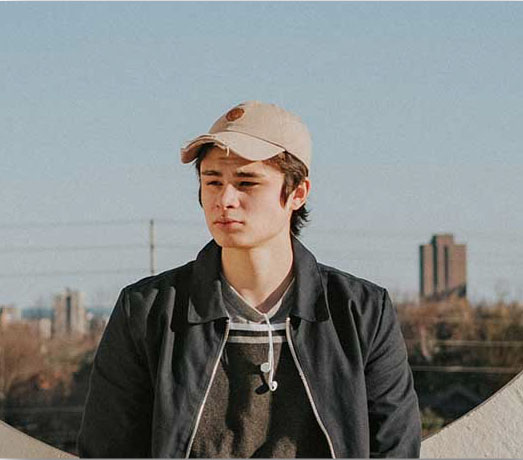
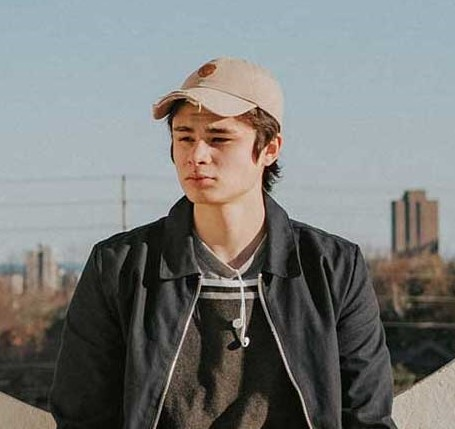
Seccion Equipo sin Responsive

diff --git a/index.html b/index.html
@@ -430,24 +430,144 @@
 
 <!--Seccion Nuestro Equipo-->
     <section id="equipo">
-        <div class="row">
-            <div class="col-md-6 team-text d-flex justify-content-center">
-                <h5 class="text-azul">Nuestro <br> Equipo.</h5>
+        <div class="row my-5 pl-5 ">            
+            <div class="col-md-6 row team-text text-azul team-item text-center">                
+                Nuestro <br> Equipo.              
             </div>
-            <div class="col-md-6 team-item d-flex">
-                <div>
+            <div class="col-md-6 row team-item">                
+                <div class="col-md-2"> 
                     <div class="team-photo">
-                        <img src="img/perfil-1.jpg" alt="Cesar Prince" width="100" class="rounded-circle">
+                        <img src="img/team-1.jpg" alt="Cesar Prince" width="100">
                     </div>
                 </div>
-                <div class="team-content">
-                   <p class="text-justify">
-                    Lorem, ipsum dolor sit amet consectetur adipisicing elit. 
-                    Eaque, obcaecati sed rerum hic temporibus dolorem id voluptatem ducimus nisi pariatur similique aspernatur accusantium illum corporis ad officiis molestiae a nesciunt?
-                   </p>
+                <div class="col-md-10">
+                    <div class="team-content mr-5 ml-3">
+                        <div class="team-name">
+                        <h4 class="h5 pl-3 pt-2 text-gris"><b>César Prince</b></h4>
+                        </div>
+                        <hr>
+                        <div class="d-flex">
+                            <p class="text-justify mx-5 mt-3 mb-4 team-description">
+                                Lorem, ipsum dolor sit amet consectetur adipisicing elit. 
+                                Eaque, obcaecati sed rerum hic temporibus dolorem id voluptatem ducimus nisi
+                            </p>
+                            <div class="text-right icon-team d-flex align-items-end mb-2">
+                                <a href="#"><span class="fa fa-instagram ml-2"></span></a>
+                                <a href="#"><span class="fa fa-twitter ml-2"></span></a>
+                                <a href="#"><span class="fa fa-facebook ml-2"></span></a>
+                            </div>
+                        </div>
+                    </div>
+                </div>                
+            </div>
+            <div class="col-md-6 row team-item">                
+                <div class="col-md-2"> 
+                    <div class="team-photo">
+                        <img src="img/team-2.jpg" alt="Cesar Prince" width="100">
+                    </div>
                 </div>
+                <div class="col-md-10">
+                    <div class="team-content mr-5 ml-3">
+                        <div class="team-name">
+                        <h4 class="h5 pl-3 pt-2 text-gris"><b>César Prince</b></h4>
+                        </div>
+                        <hr>
+                        <div class="d-flex">
+                            <p class="text-justify mx-5 mt-3 mb-4 team-description">
+                                Lorem, ipsum dolor sit amet consectetur adipisicing elit. 
+                                Eaque, obcaecati sed rerum hic temporibus dolorem id voluptatem ducimus nisi
+                            </p>
+                            <div class="text-right icon-team d-flex align-items-end mb-2">
+                                <a href="#"><span class="fa fa-instagram ml-2"></span></a>
+                                <a href="#"><span class="fa fa-twitter ml-2"></span></a>
+                                <a href="#"><span class="fa fa-facebook ml-2"></span></a>
+                            </div>
+                        </div>
+                    </div>
+                </div>                
+            </div>
+            <div class="col-md-6 row team-item">                
+                <div class="col-md-2"> 
+                    <div class="team-photo">
+                        <img src="img/team-3.jpg" alt="Cesar Prince" width="100">
+                    </div>
+                </div>
+                <div class="col-md-10">
+                    <div class="team-content mr-5 ml-3">
+                        <div class="team-name">
+                        <h4 class="h5 pl-3 pt-2 text-gris"><b>César Prince</b></h4>
+                        </div>
+                        <hr>
+                        <div class="d-flex">
+                            <p class="text-justify mx-5 mt-3 mb-4 team-description">
+                                Lorem, ipsum dolor sit amet consectetur adipisicing elit. 
+                                Eaque, obcaecati sed rerum hic temporibus dolorem id voluptatem ducimus nisi
+                            </p>
+                            <div class="text-right icon-team d-flex align-items-end mb-2">
+                                <a href="#"><span class="fa fa-instagram ml-2"></span></a>
+                                <a href="#"><span class="fa fa-twitter ml-2"></span></a>
+                                <a href="#"><span class="fa fa-facebook ml-2"></span></a>
+                            </div>
+                        </div>
+                    </div>
+                </div>                
+            </div>
+            <div class="col-md-6 row team-item">                
+                <div class="col-md-2"> 
+                    <div class="team-photo">
+                        <img src="img/team-4.jpg" alt="Cesar Prince" width="100">
+                    </div>
+                </div>
+                <div class="col-md-10">
+                    <div class="team-content mr-5 ml-3">
+                        <div class="team-name">
+                        <h4 class="h5 pl-3 pt-2 text-gris"><b>César Prince</b></h4>
+                        </div>
+                        <hr>
+                        <div class="d-flex">
+                            <p class="text-justify mx-5 mt-3 mb-4 team-description">
+                                Lorem, ipsum dolor sit amet consectetur adipisicing elit. 
+                                Eaque, obcaecati sed rerum hic temporibus dolorem id voluptatem ducimus nisi
+                            </p>
+                            <div class="text-right icon-team d-flex align-items-end mb-2">
+                                <a href="#"><span class="fa fa-instagram ml-2"></span></a>
+                                <a href="#"><span class="fa fa-twitter ml-2"></span></a>
+                                <a href="#"><span class="fa fa-facebook ml-2"></span></a>
+                            </div>
+                        </div>
+                    </div>
+                </div>                
+            </div>
+            <div class="col-md-6 row team-item">                
+                <div class="col-md-2"> 
+                    <div class="team-photo">
+                        <img src="img/team-5.jpg" alt="Cesar Prince" width="100">
+                    </div>
+                </div>
+                <div class="col-md-10">
+                    <div class="team-content mr-5 ml-3">
+                        <div class="team-name">
+                        <h4 class="h5 pl-3 pt-2 text-gris"><b>César Prince</b></h4>
+                        </div>
+                        <hr>
+                        <div class="d-flex">
+                            <p class="text-justify mx-5 mt-3 mb-4 team-description">
+                                Lorem, ipsum dolor sit amet consectetur adipisicing elit. 
+                                Eaque, obcaecati sed rerum hic temporibus dolorem id voluptatem ducimus nisi
+                            </p>
+                            <div class="text-right icon-team d-flex align-items-end mb-2">
+                                <a href="#"><span class="fa fa-instagram ml-2"></span></a>
+                                <a href="#"><span class="fa fa-twitter ml-2"></span></a>
+                                <a href="#"><span class="fa fa-facebook ml-2"></span></a>
+                            </div>
+                        </div>
+                    </div>
+                </div>                
             </div>
         </div>
+
+
+
     </section>
 <!--FinSeccion Nuestro Equipo-->
 

diff --git a/style.css b/style.css
@@ -264,44 +264,74 @@ a.separador:after{
 	text-decoration: none;
 }
 
-.team-text{
-	
+.team-item{
+	margin: 30px 0px;
 }
 
-.team-text h5{
+
+.team-text{
 	font-size: 100px;
 	font-weight: 900;
-	padding:50px 0px;
+	line-height : 90px;
+	overflow: visible;
 
 }
 
-.team-item{
-	background-color: lightgray;
-}
 
 .team-photo{
-width: 110px;
-height: 110px;
-overflow: hidden;
-border-radius: 1000px;
-background: linear-gradient(90deg, rgba(0,22,93,1) 0%, rgba(9,98,121,1) 50%, rgba(30,126,52,1) 100%);
-
-
+	border: double 4px transparent;
+	border-radius: 1000px;
+	background-image: linear-gradient(white, white), radial-gradient(circle at top left, #2a2d7e,#009b42);
+	background-origin: border-box;
+	background-clip: content-box, border-box;
+	overflow: hidden;
+	width: 118px;
+	height: 118px;
 }
 
 .team-photo img{
-	border: 5px solid #fff;
+	border: double 4px transparent;
 	border-radius: 1000px;
+	background-image: linear-gradient(white, white), radial-gradient(circle at top left, #2a2d7e,#009b42);
+	background-origin: border-box;
+	background-clip: content-box, border-box;
+	overflow: hidden;
+	width: 100px;
+	height: 100px;
 	margin: 5px;
+
 }
 
 .team-content{
-	border: 5px solid;
-	border-image-source: linear-gradient(90deg, rgba(0,22,93,1) 0%, rgba(9,98,121,1) 50%, rgba(30,126,52,1) 100%);
-	border-image-slice: 1;
-	width: 50%;
-	height: 45%;
-	padding: 20px;
-
+	border: double 3px transparent;
 	border-radius: 0px 0px 0px 80px;
+	background-image: linear-gradient(white, white), radial-gradient(circle at top left, #2a2d7e,#009b42);
+	background-origin: border-box;
+	background-clip: content-box, border-box;
+	width: 95%;
+}
+
+.team-content hr{
+	background: linear-gradient(to right, #2a2d7e, #009b42);
+	height: 2px;
+	margin: 0px!important;
+}
+
+.team-description{
+	width: 70%;
+	color: gray;
+}
+
+.icon-team{
+	
+	margin-right: 15px;
+}
+
+.icon-team a{
+	color: #009b42;
+	font-size: 20px;
+}
+
+.icon-team a:hover{
+	color: #2a2d7e;
 }
